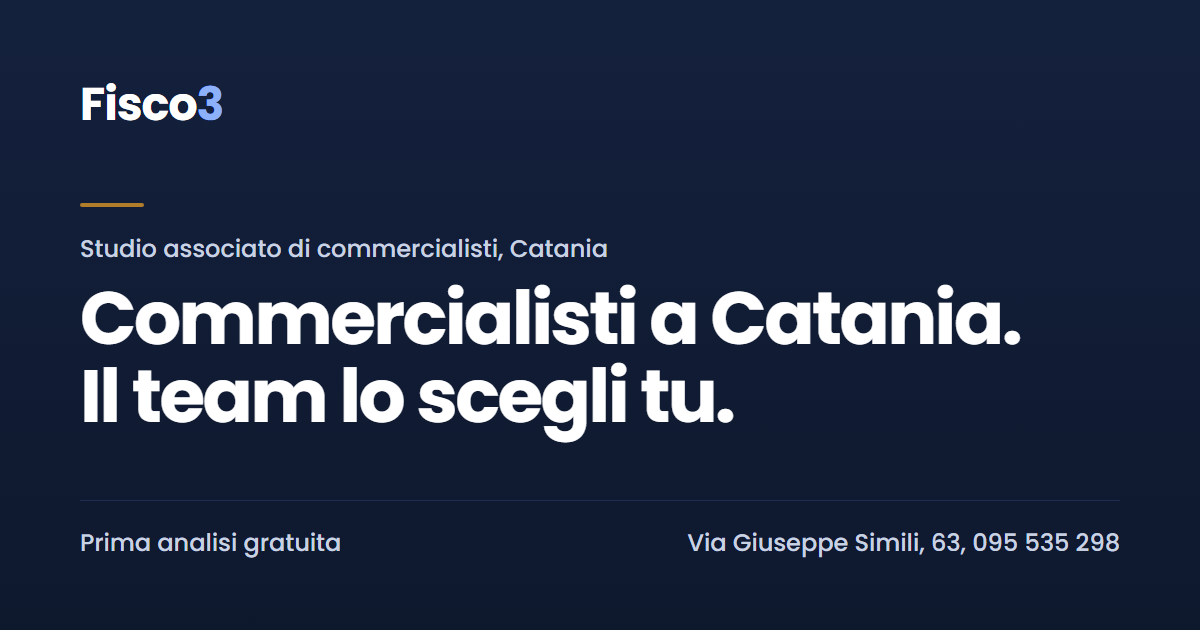
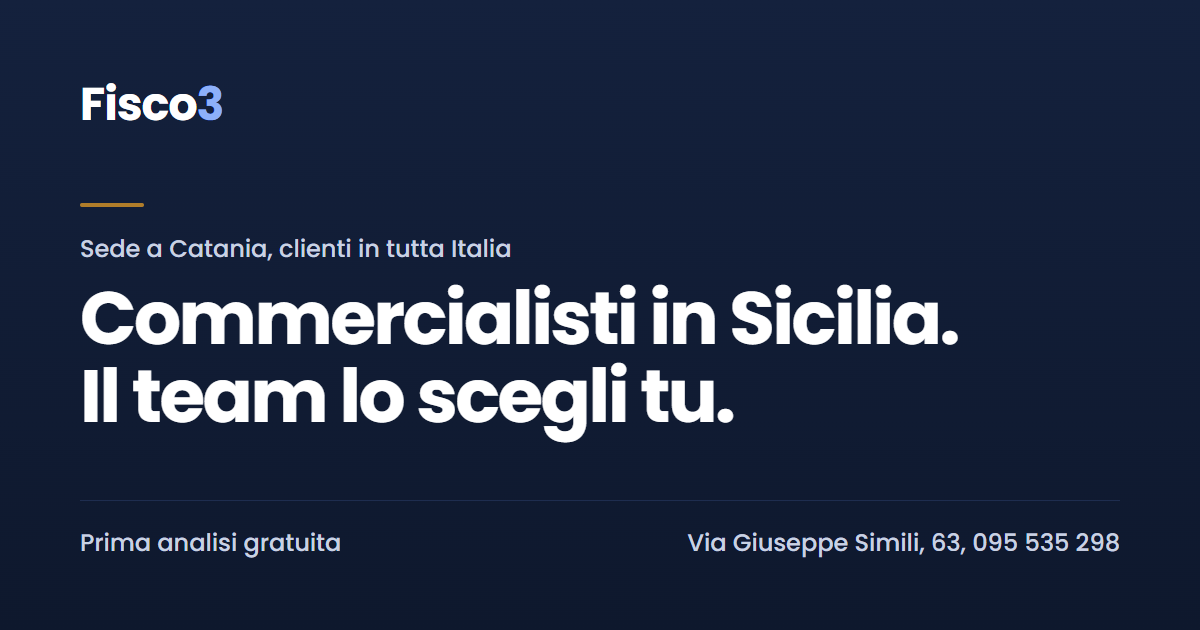
Testi: riferimento in Sicilia, clienti e forfettari in tutta Italia
Hero, "Perché scegliere", servizio forfettario, FAQ, footer, SEO
(titolo, descrizioni, areaServed) e immagine social. L'indirizzo resta
a Catania.

Changed region(s): [[0.5242, 0.4524, 0.8633, 0.573], [0.0617, 0.3619, 0.5242, 0.4222]]

diff --git a/src/seo/routes.js b/src/seo/routes.js
@@ -7,9 +7,9 @@ export const OG_IMAGE = "/og/fisco3.png"; // 1200x630
 export const ROUTES = [
   {
     path: "/",
-    title: "Commercialisti a Catania | Fisco3, il team lo scegli tu",
+    title: "Commercialisti in Sicilia | Fisco3, il team lo scegli tu",
     description:
-      "Studio associato di commercialisti a Catania: cartelle esattoriali e rottamazioni, partite IVA e regime forfettario, 730. Scegli il professionista, la prima analisi è gratuita.",
+      "Studio di commercialisti a Catania, punto di riferimento in Sicilia con clienti in tutta Italia: cartelle esattoriali e rottamazioni, partite IVA e forfettario, 730. La prima analisi è gratuita.",
   },
   {
     path: "/consulenze",
@@ -20,7 +20,7 @@ export const ROUTES = [
     path: "/contabilita",
     title: "Contabilità per partite IVA e attività | Fisco3 Catania",
     description:
-      "Tenuta della contabilità, fatturazione elettronica, scadenze e F24 con un commercialista di riferimento a Catania.",
+      "Tenuta della contabilità, fatturazione elettronica, scadenze e F24 con un commercialista di riferimento, in Sicilia e in tutta Italia.",
   },
   {
     path: "/faq",
@@ -76,7 +76,10 @@ export function localBusinessJsonLd() {
       addressRegion: studio.address.province,
       addressCountry: "IT",
     },
-    areaServed: "Catania",
+    areaServed: [
+      { "@type": "AdministrativeArea", name: "Sicilia" },
+      { "@type": "Country", name: "Italia" },
+    ],
   };
   if (studio.piva) data.vatID = studio.piva;
   if (studio.geo) {
@@ -129,7 +132,7 @@ export function headTags(path) {
     `<meta property="og:image" content="${image}" />`,
     `<meta property="og:image:width" content="1200" />`,
     `<meta property="og:image:height" content="630" />`,
-    `<meta property="og:image:alt" content="Fisco3, commercialisti a Catania. Il team lo scegli tu." />`,
+    `<meta property="og:image:alt" content="Fisco3, commercialisti in Sicilia. Il team lo scegli tu." />`,
     `<meta name="twitter:card" content="summary_large_image" />`,
     `<meta name="twitter:title" content="${esc(route.title)}" />`,
     `<meta name="twitter:description" content="${esc(route.description)}" />`,

diff --git a/src/components/home/Hero.jsx b/src/components/home/Hero.jsx
@@ -97,7 +97,7 @@ export default function Hero() {
       <Container className="relative">
         <div className="reveal mx-auto max-w-5xl text-center">
           <h1 className="text-balance text-[2.5rem] font-bold leading-[1.08] tracking-tightest sm:text-6xl lg:text-[4.25rem]">
-            <span className="sm:block">Commercialisti a Catania.</span>{" "}
+            <span className="sm:block">Commercialisti in Sicilia.</span>{" "}
             <span className="block">
               Il&nbsp;team lo scegli tu.
             </span>
@@ -105,6 +105,7 @@ export default function Hero() {
           <p className="mx-auto mt-6 max-w-2xl text-pretty text-lg leading-relaxed md:text-xl">
             Tre professionisti, tre specialità: cartelle esattoriali e
             rottamazioni, partite IVA e regime forfettario, 730 e contributi.
+            Un punto di riferimento in Sicilia, con clienti in tutta Italia.
             Scegli con chi parlare: la prima analisi è gratuita.
           </p>
 

diff --git a/src/data/services.js b/src/data/services.js
@@ -15,7 +15,7 @@ export const SERVICES = [
     label: "Partite IVA e regime forfettario",
     situation: "Ho o voglio aprire una partita IVA forfettaria",
     description:
-      "Verifichiamo se puoi accedere al forfettario, apriamo la partita IVA e teniamo sotto controllo scadenze e versamenti.",
+      "Verifichiamo se puoi accedere al forfettario, apriamo la partita IVA e teniamo sotto controllo scadenze e versamenti. Seguiamo forfettari in tutta Italia, anche a distanza.",
     ctaLabel: "Richiedi l'analisi per la partita IVA",
     formLabel: "Regime Forfettario",
   },

diff --git a/src/components/Footer.jsx b/src/components/Footer.jsx
@@ -92,8 +92,8 @@ export default function Footer() {
             </Link>
             <p className="mt-5 max-w-xs leading-relaxed">
               {studio.legalName ?? "Studio associato di commercialisti"} a
-              Catania. Tre professionisti, tre specialità: il team lo scegli
-              tu.
+              Catania, punto di riferimento in Sicilia, con clienti in tutta
+              Italia. Il team lo scegli tu.
             </p>
             {studio.piva && (
               <p className="mt-3 text-sm">P.IVA {studio.piva}</p>

diff --git a/src/components/home/WhyUs.jsx b/src/components/home/WhyUs.jsx
@@ -54,7 +54,7 @@ export default function WhyUs({ bg }) {
             Perché scegliere {studio.brandName}
           </h2>
           <p className="section-lead">
-            Uno studio di Catania dove sai sempre con chi stai parlando.
+            Un punto di riferimento in Sicilia, con clienti in tutta Italia: sai sempre con chi stai parlando.
           </p>
           {/* Su mobile righe separate da filetti, da md in su icone su riquadro */}
           <ul className="mt-8 border-b border-pietra-scura md:space-y-6 md:border-0">

diff --git a/src/data/faq.js b/src/data/faq.js
@@ -9,7 +9,7 @@ export const FAQ_ITEMS = [
   {
     question: "Cos'è Fisco3 e come funziona?",
     answer:
-      "Fisco3 è uno studio associato di commercialisti a Catania, che segue clienti in studio e anche a distanza.",
+      "Fisco3 è uno studio associato di commercialisti con sede a Catania, un punto di riferimento in Sicilia. Seguiamo clienti in studio e, a distanza, in tutta Italia: i forfettari, ad esempio, li gestiamo ovunque.",
   },
   {
     question: "Quanto costa il servizio?",
